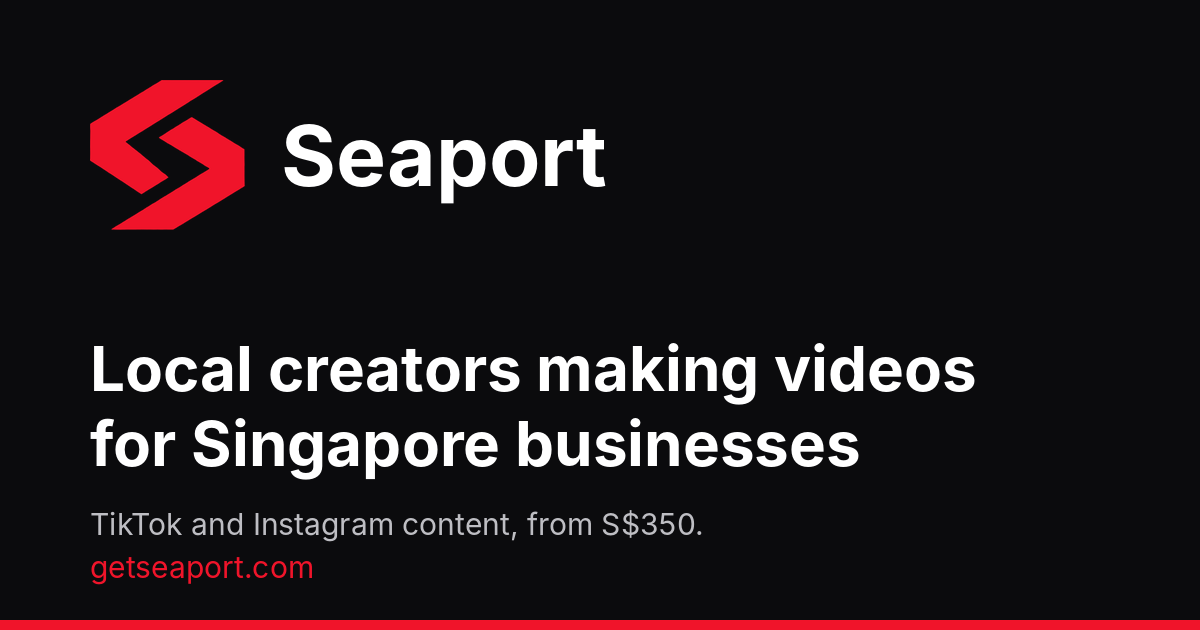
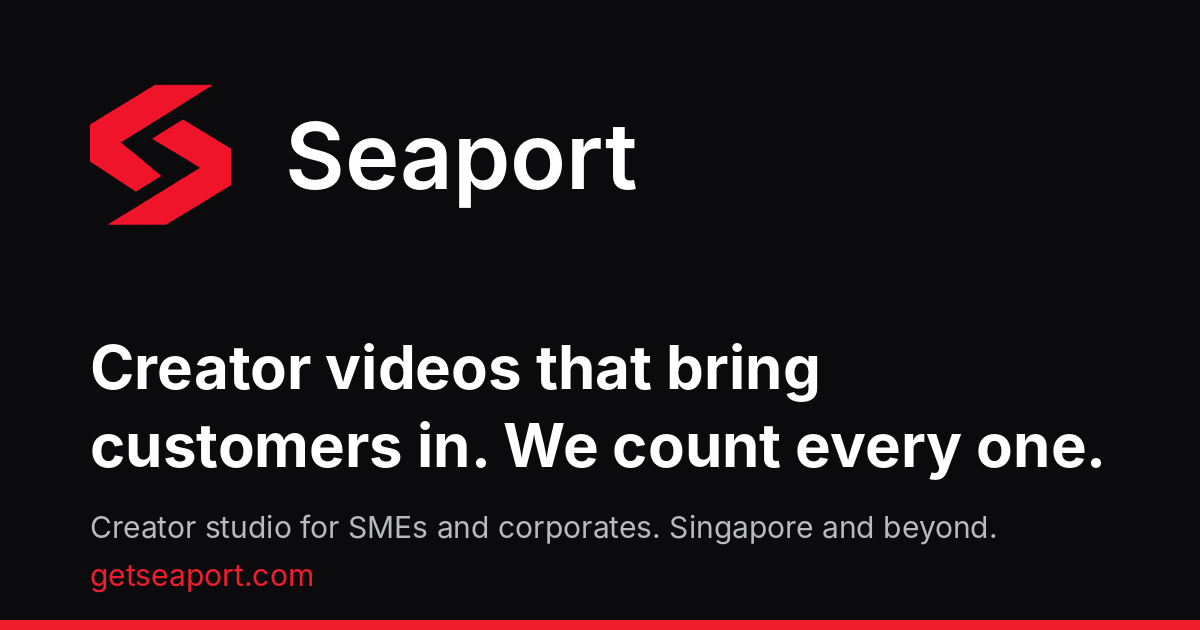
New share images for home and creators pages
Claude-Session: https://claude.ai/code/session_01T6afHS1f7wZazi2QAtnUzL

diff --git a/index.html b/index.html
@@ -2,7 +2,7 @@
 <html lang="en"><head><meta charset="utf-8"><meta name="viewport" content="width=device-width, initial-scale=1, viewport-fit=cover">
 <title>Seaport | Creator studio</title>
 <script>(function(){try{var t=localStorage.getItem("seaport-theme");if(t==="light"||t==="dark")document.documentElement.setAttribute("data-theme",t)}catch(e){}})();</script>
-<meta property="og:image" content="https://getseaport.com/assets/seaport/og-image.png">
+<meta property="og:image" content="https://getseaport.com/assets/seaport/og-image.png?v=2">
 <meta name="twitter:card" content="summary_large_image">
 <link rel="icon" href="/favicon.ico" sizes="any">
 <link rel="icon" type="image/png" sizes="32x32" href="/assets/seaport/favicon-32.png">

diff --git a/creators.html b/creators.html
@@ -2,7 +2,7 @@
 <html lang="en"><head><meta charset="utf-8"><meta name="viewport" content="width=device-width, initial-scale=1, viewport-fit=cover">
 <title>Seaport Creators</title>
 <script>(function(){try{var t=localStorage.getItem("seaport-theme");if(t==="light"||t==="dark")document.documentElement.setAttribute("data-theme",t)}catch(e){}})();</script>
-<meta property="og:image" content="https://getseaport.com/assets/seaport/og-image.png">
+<meta property="og:image" content="https://getseaport.com/assets/seaport/og-creators.png?v=2">
 <meta name="twitter:card" content="summary_large_image">
 <link rel="icon" href="/favicon.ico" sizes="any">
 <link rel="icon" type="image/png" sizes="32x32" href="/assets/seaport/favicon-32.png">
